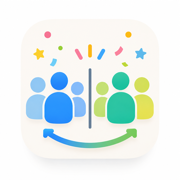
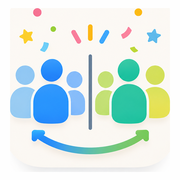
日程しらべに定員機能を追加＋アイコンの余白をトリミング
- schedule.html: 各候補日に「◯人まで（上限人数）」を入力できるよう追加。
  空欄=上限なし（従来の延べ最大）。上限を設定すると、容量つき二部マッチングで
  「実際に参加できる人数」「定員オーバー/都合がつかないで入れない人」を計算し、
  1日しか行けない人を優先して割り当てる。連動時も割り当てに従い担当日へ固定
- アイコン(icon-180.png / date_icon.png)の外周の余白をトリミングし絵を枠いっぱいに
  （fill率 約62-71%→91%、date_iconは994KB→95KBに軽量化）。?v も更新

diff --git a/schedule.html b/schedule.html
@@ -7,8 +7,8 @@
 <meta name="apple-mobile-web-app-capable" content="yes">
 <meta name="apple-mobile-web-app-status-bar-style" content="default">
 <meta name="apple-mobile-web-app-title" content="日程しらべ">
-<link rel="apple-touch-icon" href="date_icon.png?v=1">
-<link rel="icon" type="image/png" href="date_icon.png?v=1">
+<link rel="apple-touch-icon" href="date_icon.png?v=2">
+<link rel="icon" type="image/png" href="date_icon.png?v=2">
 <link rel="preconnect" href="https://fonts.googleapis.com">
 <link rel="preconnect" href="https://fonts.gstatic.com" crossorigin>
 <link href="https://fonts.googleapis.com/css2?family=Noto+Sans+JP:wght@300;400;500;600;700&family=Noto+Serif+JP:wght@500;700&display=swap" rel="stylesheet">
@@ -142,6 +142,8 @@
   table.matrix .date-head { vertical-align: bottom; }
   table.matrix .date-head .lbl { display: block; max-width: 130px; white-space: normal; word-break: break-word; line-height: 1.3; }
   table.matrix .date-head label { display: inline-flex; align-items: center; gap: 3px; font-size: 10px; color: var(--akane); font-weight: 500; margin-top: 4px; cursor: pointer; }
+  table.matrix .date-head .cap-in { display: flex; align-items: center; justify-content: center; gap: 3px; margin-top: 4px; font-size: 10px; color: var(--sumi-mute); font-weight: 500; }
+  table.matrix .date-head .cap-in input { width: 40px; padding: 2px 4px; font-size: 11px; text-align: center; border-radius: 4px; }
   table.matrix col.excluded, table.matrix td.excluded { background: repeating-linear-gradient(45deg, transparent, transparent 5px, rgba(184,70,58,0.06) 5px, rgba(184,70,58,0.06) 10px); }
   table.matrix .maru { color: var(--matcha-d); font-weight: 700; }
   table.matrix .sankaku { color: var(--kuchi); font-weight: 700; }
@@ -219,7 +221,7 @@
   <section class="sheet hidden" id="matrix-card">
     <div class="sheet-step"><span class="num">参</span>STEP 3</div>
     <h2 class="sheet-title"><span class="ic" data-ic="list"></span>みんなの出欠 一覧</h2>
-    <p class="sheet-desc">○＝行ける、△＝条件付き、×＝行けない。売り切れなどで使えない日は、日付の下の「除外」にチェックを入れてください。</p>
+    <p class="sheet-desc">○＝行ける、△＝条件付き、×＝行けない。使えない日は「除外」にチェック。各日の「◯人まで」に入れる上限（残りチケットなど）を入れると、定員を考慮して計算します（空欄＝上限なし）。</p>
     <div class="matrix-wrap" id="matrix-wrap"></div>
   </section>
 
@@ -274,14 +276,14 @@ function hydrateIcons(root = document) {
     el.dataset.icHydrated = '1';
   });
 }
-document.getElementById('brand-mark').innerHTML = '<img src="date_icon.png?v=1" alt="">';
+document.getElementById('brand-mark').innerHTML = '<img src="date_icon.png?v=2" alt="">';
 hydrateIcons();
 const _obs = new MutationObserver(() => hydrateIcons());
 _obs.observe(document.body, { childList: true, subtree: true });
 
 /* ============== State ============== */
 // members: [{ name, excluded }]
-// dates:   [{ label, answers: ['○'|'△'|'×'|'', ...], excluded }]   answers[memberIndex] と対応
+// dates:   [{ label, answers: ['○'|'△'|'×'|'', ...], excluded, cap }]   answers[memberIndex] と対応 / cap=その日の上限人数(null=上限なし)
 let members = [];
 let dates   = [];
 let includeMaybe = false;
@@ -327,7 +329,7 @@ function handleText(text) {
     if (parsed.members.length < 1) return showErr('参加者が見つかりませんでした。');
     if (parsed.dates.length < 1) return showErr('日程候補が見つかりませんでした。');
     members = parsed.members.map(name => ({ name, excluded: false }));
-    dates = parsed.dates.map(d => ({ label: d.label, answers: d.answers, excluded: false }));
+    dates = parsed.dates.map(d => ({ label: d.label, answers: d.answers, excluded: false, cap: null }));
     renderConfirm();
     renderMatrix();
     recompute();
@@ -442,6 +444,7 @@ function renderMatrix() {
     html += `<th class="date-head${d.excluded ? ' excluded-th' : ''}">
       <span class="lbl">${esc(d.label)}</span>
       <label><input type="checkbox" ${d.excluded ? 'checked' : ''} onchange="toggleExclude(${di}, this.checked)"> 除外</label>
+      <div class="cap-in"><input type="number" min="0" placeholder="∞" value="${d.cap == null ? '' : d.cap}" onchange="setCap(${di}, this.value)"><span>人まで</span></div>
     </th>`;
   });
   html += '</tr></thead><tbody>';
@@ -463,6 +466,11 @@ function renderMatrix() {
   wrap.innerHTML = html;
 }
 function toggleExclude(di, checked) { dates[di].excluded = checked; renderMatrix(); recompute(); }
+function setCap(di, val) {
+  const n = parseInt(val);
+  dates[di].cap = (String(val).trim() === '' || isNaN(n) || n < 0) ? null : n;
+  recompute();   // フォーカスを保つため matrix は再描画しない
+}
 function countDay(di) {
   let maru = 0, sankaku = 0;
   members.forEach((m, mi) => {
@@ -502,6 +510,41 @@ function combinations(arr, k) {
   return res;
 }
 
+/* 定員を守った割り当て（誰をどの日に入れれば最も多く参加できるか）
+   = 容量つき二部マッチング。1日しか行けない人を優先するため制約の強い人から割り当てる。
+   cap が null の日は上限なし（Infinity）扱い。空欄のままなら従来の「のべ最大」と同じ結果になる。 */
+function maxAssign(combo) {
+  const sets = combo.map(di => availableSet(di));
+  const caps = combo.map(di => (dates[di].cap == null ? Infinity : Math.max(0, dates[di].cap)));
+  const people = [];
+  members.forEach((m, mi) => {
+    if (m.excluded) return;
+    const days = [];
+    sets.forEach((s, ci) => { if (s.has(mi)) days.push(ci); });
+    if (days.length) people.push({ mi, days });
+  });
+  people.sort((a, b) => a.days.length - b.days.length || a.mi - b.mi);  // 行ける日が少ない人を優先
+  const dayOcc = combo.map(() => []);          // ci → 割り当て済みの people index
+  const assignedDay = new Array(people.length).fill(-1);
+  function augment(pi, seen) {
+    for (const ci of people[pi].days) {
+      if (seen[ci]) continue;
+      seen[ci] = true;
+      if (dayOcc[ci].length < caps[ci]) { dayOcc[ci].push(pi); assignedDay[pi] = ci; return true; }
+      for (let k = 0; k < dayOcc[ci].length; k++) {            // 先客を別の日へ動かせるか
+        if (augment(dayOcc[ci][k], seen)) { dayOcc[ci][k] = pi; assignedDay[pi] = ci; return true; }
+      }
+    }
+    return false;
+  }
+  let matched = 0;
+  for (let pi = 0; pi < people.length; pi++) { if (augment(pi, combo.map(() => false))) matched++; }
+  const perDay = combo.map((di, ci) => ({ di, count: dayOcc[ci].length, cap: caps[ci] }));
+  const matchedMis = new Set(); const assignment = {};
+  people.forEach((p, pi) => { if (assignedDay[pi] >= 0) { matchedMis.add(p.mi); assignment[p.mi] = assignedDay[pi]; } });
+  return { matched, perDay, matchedMis, assignment };
+}
+
 function recompute() {
   const out = document.getElementById('analyze-result');
   const activeDates = dates.map((d, i) => i).filter(i => !dates[i].excluded);
@@ -510,31 +553,40 @@ function recompute() {
   if (k > activeDates.length) k = activeDates.length;
   if (activeDates.length === 0) { out.innerHTML = '<p class="hint"><span class="ic" data-ic="x"></span>候補日がすべて除外されています</p>'; return; }
 
-  const sets = {}; activeDates.forEach(di => sets[di] = availableSet(di));
-  const combos = combinations(activeDates, k).map(combo => {
-    const union = new Set();
-    combo.forEach(di => sets[di].forEach(mi => union.add(mi)));
-    const perDay = combo.map(di => ({ di, count: sets[di].size }));
-    const counts = perDay.map(p => p.count);
+  const cands = combinations(activeDates, k).map(combo => {
+    const res = maxAssign(combo);
+    const anyAvail = new Set();
+    combo.forEach(di => availableSet(di).forEach(mi => anyAvail.add(mi)));
+    const counts = res.perDay.map(p => p.count);
     const spread = Math.max(...counts) - Math.min(...counts);   // 偏りの小ささ（同点の並べ替え用）
-    return { combo, total: union.size, union, perDay, spread };
+    return { combo, total: res.matched, perDay: res.perDay, matchedMis: res.matchedMis, anyAvail, spread };
   });
-  combos.sort((a, b) => b.total - a.total || a.spread - b.spread);
+  cands.sort((a, b) => b.total - a.total || a.spread - b.spread);
 
   const activeMembers = members.map((m, i) => i).filter(i => !members[i].excluded);
-  const top = combos.slice(0, 5);
+  const top = cands.slice(0, 5);
   let html = '';
   top.forEach((cand, rank) => {
-    const missing = activeMembers.filter(mi => !cand.union.has(mi)).map(mi => members[mi].name);
-    const daysHtml = cand.perDay.map(p =>
-      `<span class="day">${esc(dates[p.di].label)} <b>${p.count}人</b></span>`).join('');
+    const daysHtml = cand.perDay.map(p => {
+      if (p.cap === Infinity) {   // 上限なし：その日に行ける人数（重複あり）を表示
+        return `<span class="day">${esc(dates[p.di].label)} <b>${availableSet(p.di).size}人</b></span>`;
+      }
+      const full = (p.count >= p.cap) ? ' <span style="color:var(--akane);font-weight:700;">満</span>' : '';
+      return `<span class="day">${esc(dates[p.di].label)} <b>${p.count}/${p.cap}人</b>${full}</span>`;
+    }).join('');
+    const noDay = activeMembers.filter(mi => !cand.anyAvail.has(mi)).map(mi => members[mi].name);
+    const capOut = activeMembers.filter(mi => cand.anyAvail.has(mi) && !cand.matchedMis.has(mi)).map(mi => members[mi].name);
+    let miss = '';
+    if (capOut.length) miss += `<div class="cand-miss">定員オーバーで入れない：${esc(capOut.join('、'))}</div>`;
+    if (noDay.length) miss += `<div class="cand-miss" style="color:var(--sumi-mute)">どの日も都合がつかない：${esc(noDay.join('、'))}</div>`;
+    if (!miss) miss = '<div class="cand-miss" style="color:var(--matcha-d)">全員が参加できます</div>';
     html += `<div class="cand${rank === 0 ? ' best' : ''}">
       <div class="cand-head">
         <span class="cand-rank">${rank === 0 ? '◎ おすすめ' : '第' + (rank + 1) + '案'}</span>
-        <span class="cand-total">のべ ${cand.total}<span class="u">人 参加可能</span></span>
+        <span class="cand-total">${cand.total}<span class="u">人 参加可能</span></span>
       </div>
       <div class="cand-days">${daysHtml}</div>
-      ${missing.length ? `<div class="cand-miss">どの日も参加できない：${esc(missing.join('、'))}</div>` : '<div class="cand-miss" style="color:var(--matcha-d)">全員が参加できます</div>'}
+      ${miss}
       <div class="cand-actions">
         <button class="btn btn-tonal btn-sm" onclick='goToDivide(${JSON.stringify(cand.combo)})'>
           <span class="ic" data-ic="shuffle"></span>この日程でチーム分けへ
@@ -548,25 +600,35 @@ function recompute() {
 /* ============== チーム分けへ連動 ============== */
 function goToDivide(combo) {
   // combo: 採用した日程の dateIndex 配列
-  const sets = combo.map(di => availableSet(di));
-  // 参加者プール = いずれかの採用日に参加できる人（重複なし）
-  const unionIdx = [];
-  members.forEach((m, mi) => {
-    if (m.excluded) return;
-    if (sets.some(s => s.has(mi))) unionIdx.push(mi);
-  });
-  if (unionIdx.length < 2) { alert('参加できる人が2名以上必要です'); return; }
-
-  const pool = unionIdx.map(mi => members[mi].name);
   const teamNames = combo.map(di => dates[di].label);
-  // 1日しか参加できない人 → その日に固定
+  const hasCap = combo.some(di => dates[di].cap != null);
+
+  if (hasCap) {
+    // 定員あり：定員を守った割り当てに従い、全員を担当日に固定（あふれた人は除外）
+    const res = maxAssign(combo);
+    const idx = members.map((m, mi) => mi).filter(mi => res.matchedMis.has(mi));
+    if (idx.length < 2) { alert('参加できる人が2名以上必要です'); return; }
+    const pool = idx.map(mi => members[mi].name);
+    const fixed = {};
+    idx.forEach((mi, poolPos) => { fixed[poolPos] = res.assignment[mi]; });
+    return saveAndGo({ pool, teamCount: combo.length, teamNames, fixed });
+  }
+
+  // 定員なし（従来）：いずれかの採用日に行ける人をプールに、1日のみの人は固定・複数日OKは自由
+  const sets = combo.map(di => availableSet(di));
+  const unionIdx = [];
+  members.forEach((m, mi) => { if (m.excluded) return; if (sets.some(s => s.has(mi))) unionIdx.push(mi); });
+  if (unionIdx.length < 2) { alert('参加できる人が2名以上必要です'); return; }
+  const pool = unionIdx.map(mi => members[mi].name);
   const fixed = {};
   unionIdx.forEach((mi, poolPos) => {
     const okDays = combo.map((di, ci) => ci).filter(ci => sets[ci].has(mi));
     if (okDays.length === 1) fixed[poolPos] = okDays[0];
   });
+  saveAndGo({ pool, teamCount: combo.length, teamNames, fixed });
+}
 
-  const payload = { pool, teamCount: combo.length, teamNames, fixed };
+function saveAndGo(payload) {
   localStorage.setItem('td_handoff', JSON.stringify(payload));
   location.href = 'index.html';
 }

diff --git a/index.html b/index.html
@@ -7,8 +7,8 @@
 <meta name="apple-mobile-web-app-capable" content="yes">
 <meta name="apple-mobile-web-app-status-bar-style" content="default">
 <meta name="apple-mobile-web-app-title" content="チーム分け">
-<link rel="apple-touch-icon" href="icon-180.png?v=6">
-<link rel="icon" type="image/png" href="icon-180.png?v=6">
+<link rel="apple-touch-icon" href="icon-180.png?v=7">
+<link rel="icon" type="image/png" href="icon-180.png?v=7">
 <link rel="preconnect" href="https://fonts.googleapis.com">
 <link rel="preconnect" href="https://fonts.gstatic.com" crossorigin>
 <link href="https://fonts.googleapis.com/css2?family=Noto+Sans+JP:wght@300;400;500;600;700&family=Noto+Serif+JP:wght@500;700&display=swap" rel="stylesheet">
@@ -572,7 +572,7 @@ function hydrateIcons(root = document) {
     el.dataset.icHydrated = '1';
   });
 }
-document.getElementById('brand-mark').innerHTML = '<img src="icon-180.png?v=6" alt="">';
+document.getElementById('brand-mark').innerHTML = '<img src="icon-180.png?v=7" alt="">';
 document.getElementById('lock-ic').innerHTML = window.TDIcons.get('lock', 16);
 hydrateIcons();
 
